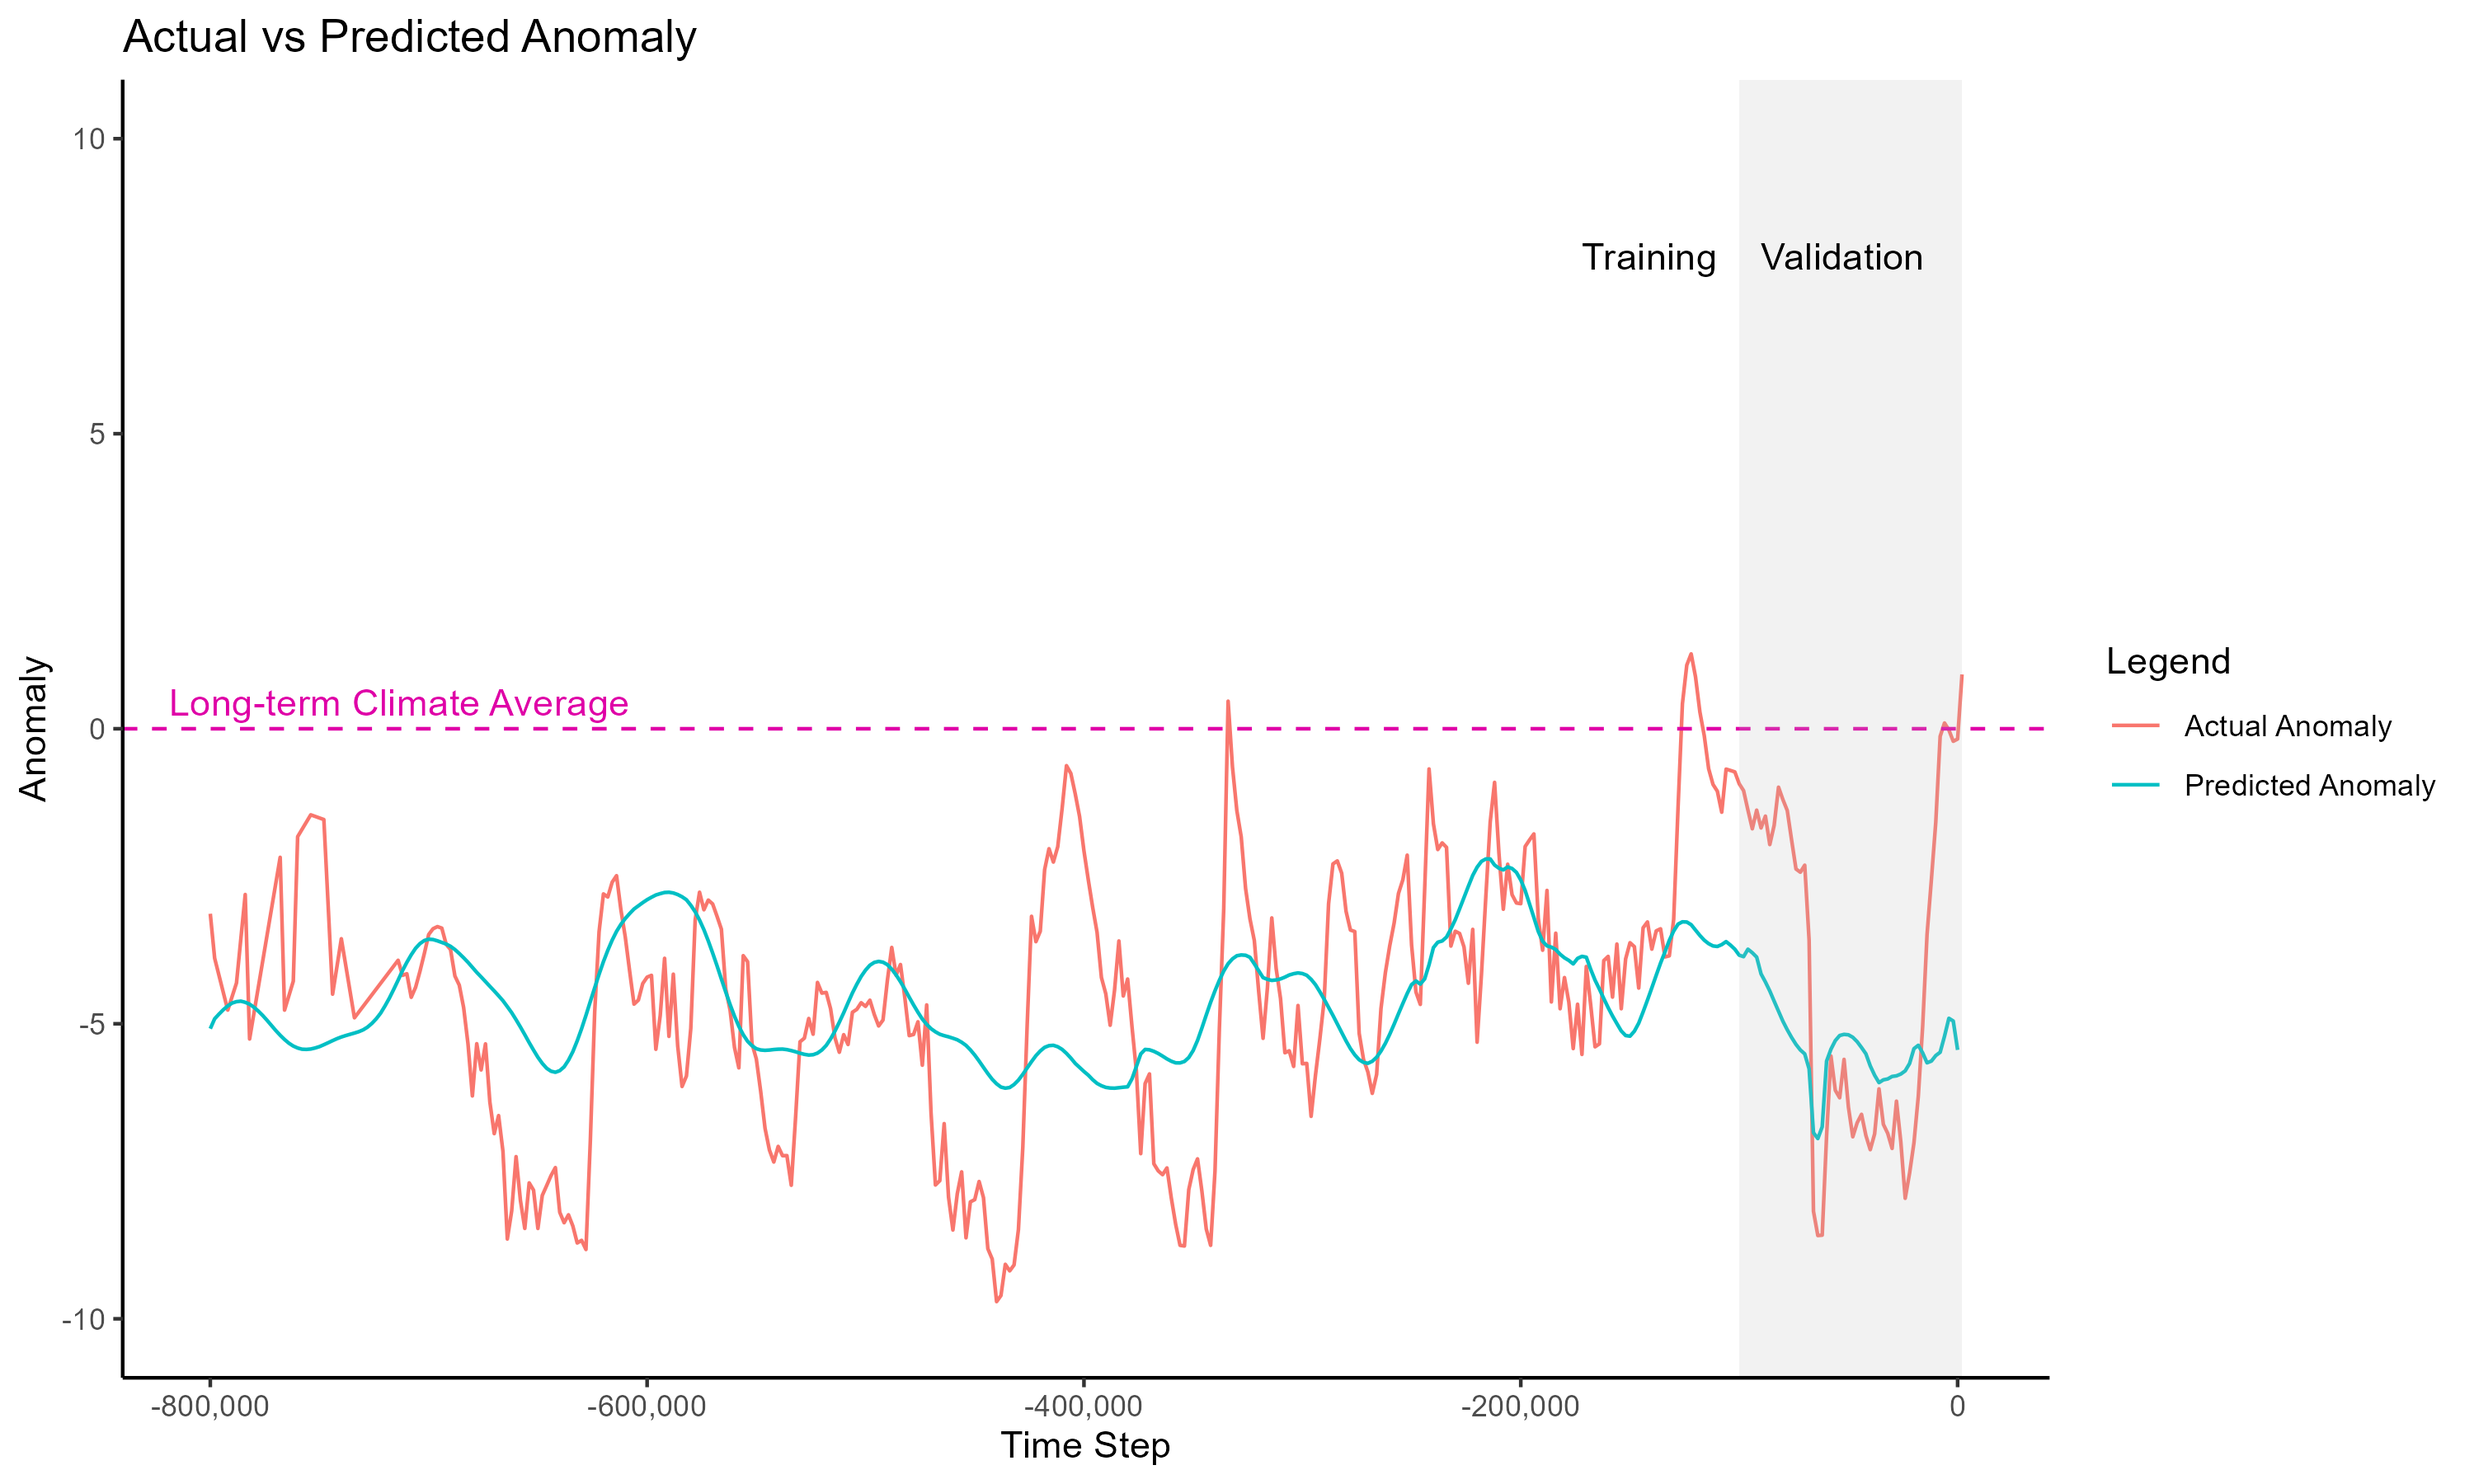
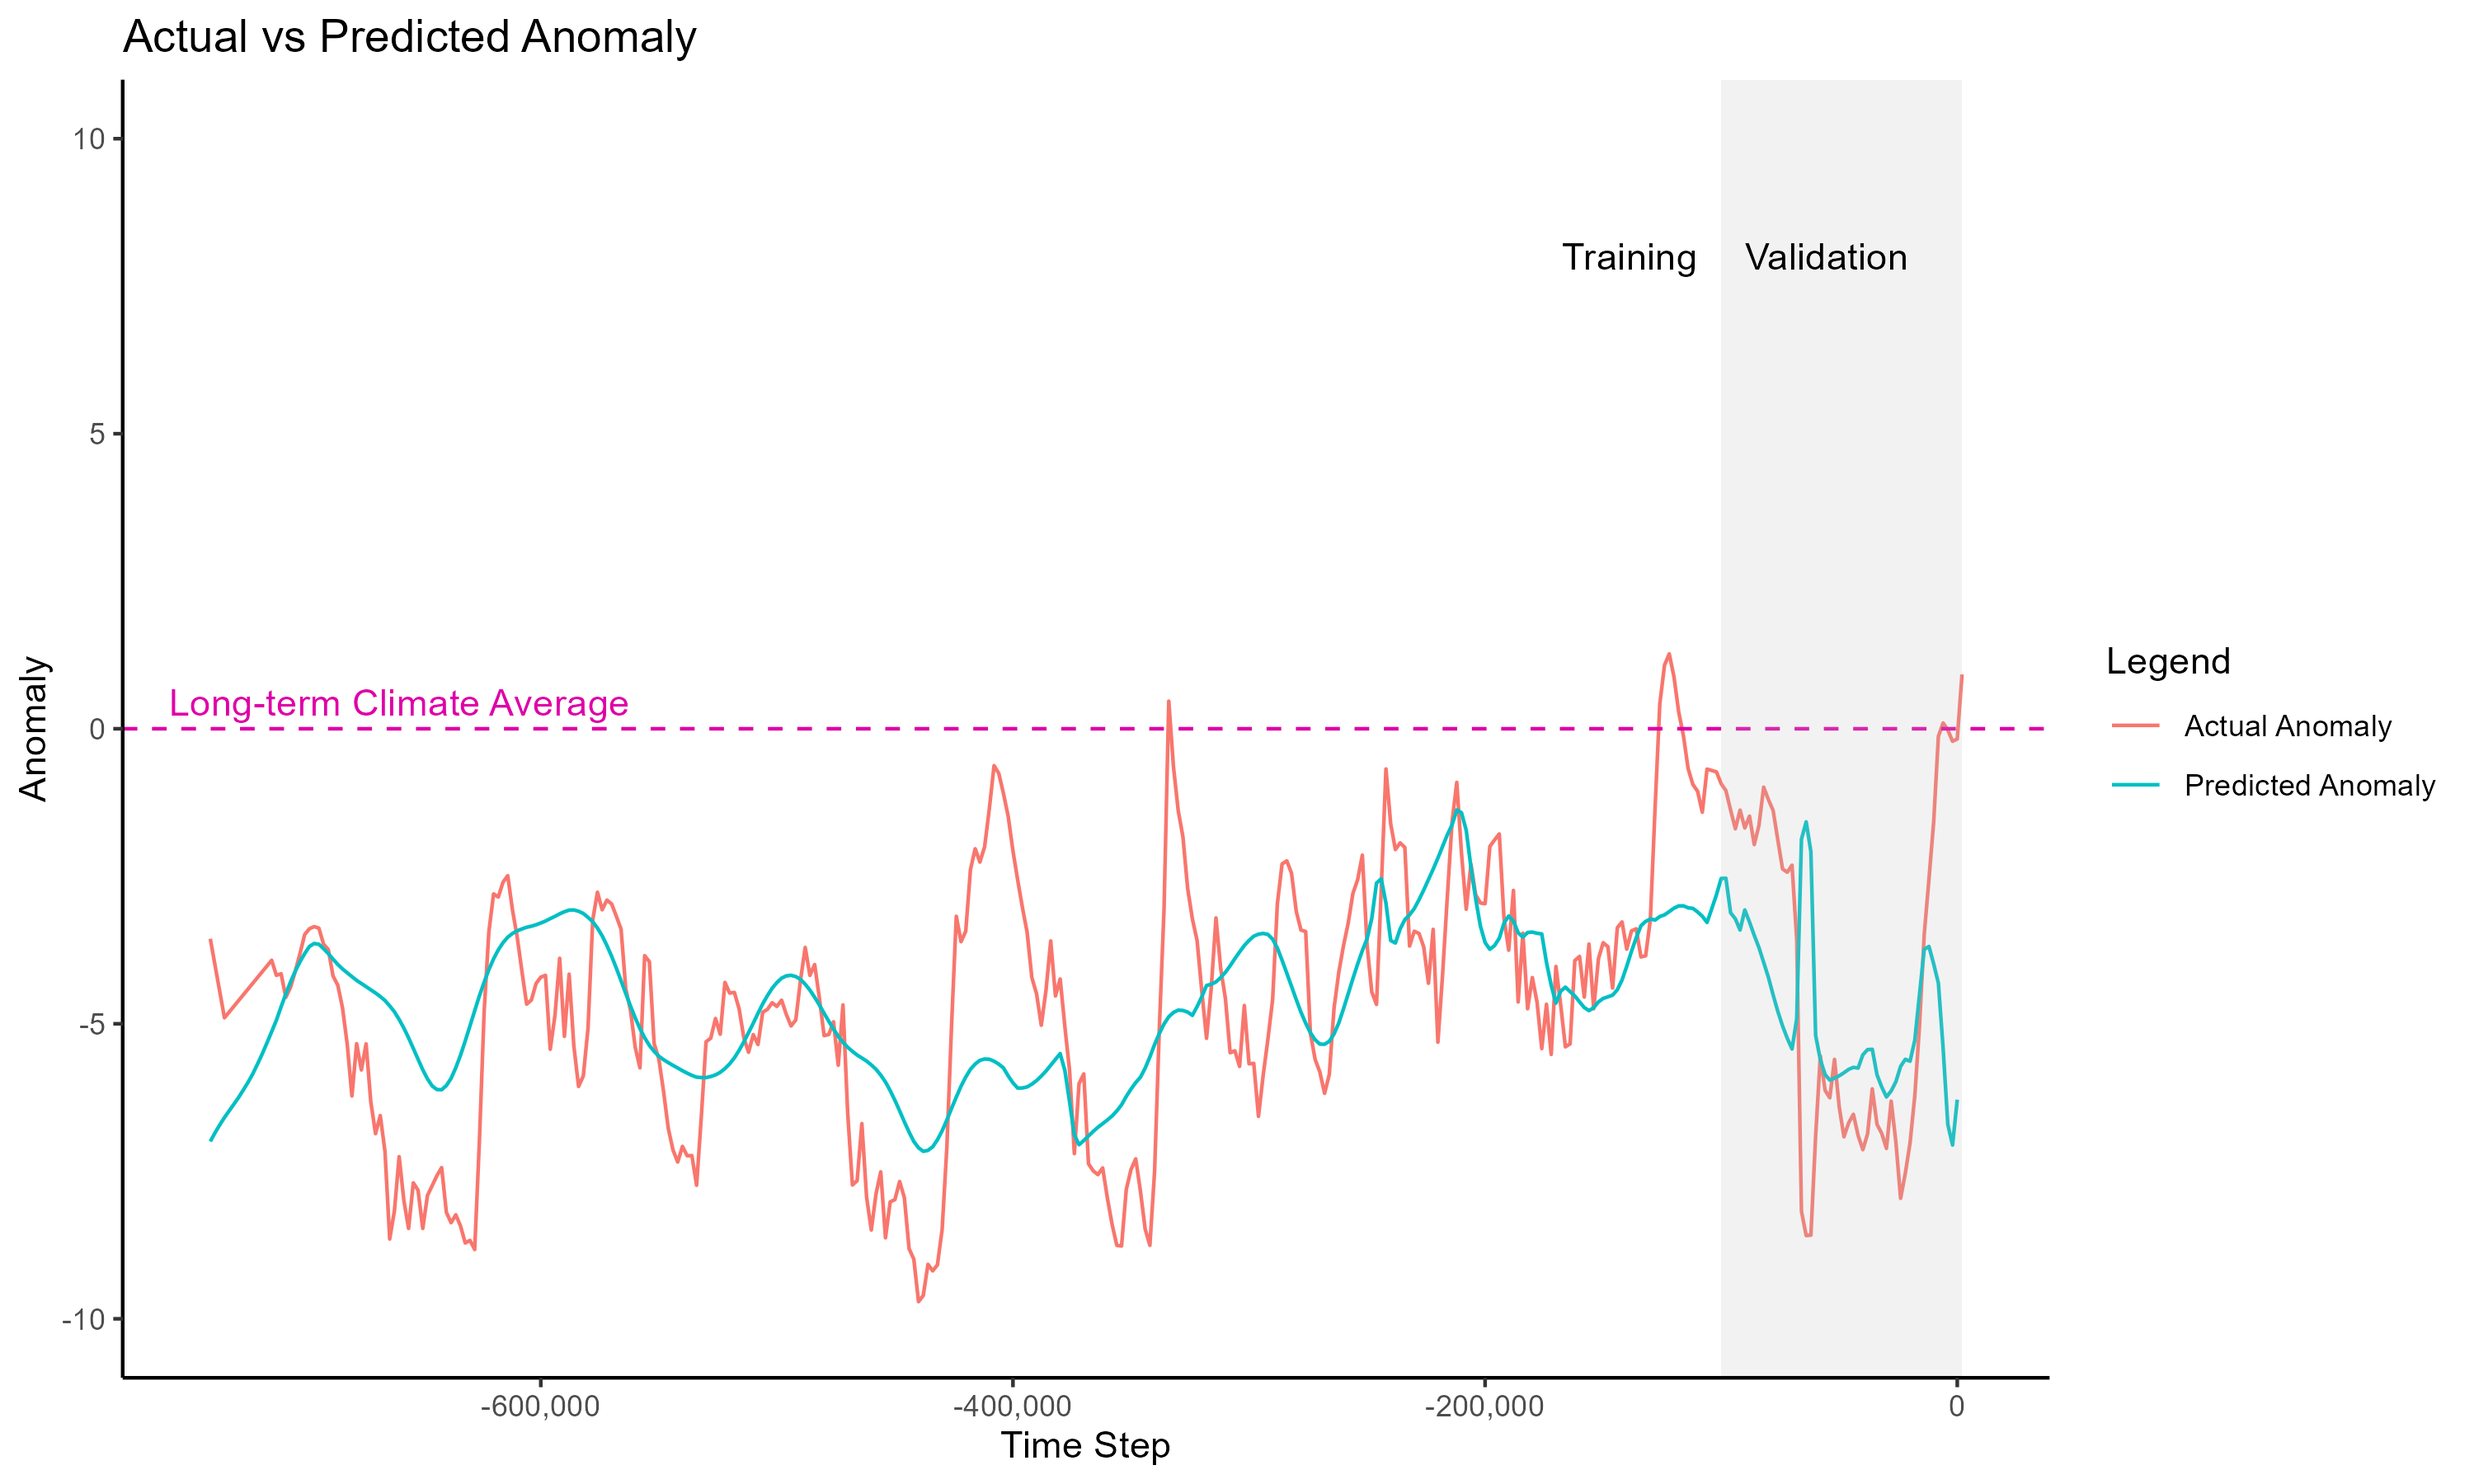
Added regularization

diff --git a/Temp12k_torch_forecasting.py b/Temp12k_torch_forecasting.py
@@ -13,10 +13,42 @@ import numpy as np
 full_df = pl.read_csv(
     "Outputs/long_term_global_anomaly_view_enriched_training.csv"
 ).drop_nans()
-train_df = full_df.filter(pl.col("year_bin") < -100000)
+# %%
+# Solar modulation seems to have an inverse effect at -64,000 - possibly some reversal in its effect needs to be modeled
+reverse_solar_modulation = False
+if reverse_solar_modulation:
+    full_df = full_df.with_columns(
+        pl.when(pl.col("year_bin") > -200000)
+        .then(-pl.col("solar_modulation"))
+        .otherwise(pl.col("solar_modulation"))
+        .alias("solar_modulation"),
+        pl.when(pl.col("year_bin") > -200000)
+        .then(-pl.col("delta_solar_modulation"))
+        .otherwise(pl.col("delta_solar_modulation"))
+        .alias("delta_solar_modulation"),
+    )
+# %%
+# Define the test set range
+middle = True
+if middle:
+    test_start = -500000
+    test_end = -300000
+else:
+    test_start = -100000
+    test_end = 3000
+
+# Split the dataset into training and test sets
+test_df = full_df.filter(
+    (pl.col("year_bin") >= test_start) & (pl.col("year_bin") <= test_end)
+)
+train_df = full_df.filter(
+    (pl.col("year_bin") < test_start) | (pl.col("year_bin") > test_end)
+)
 
 # Prepare the data
 features = train_df.drop("anomaly", "year_bin").to_numpy()
+print(f"Training on {train_df.drop('anomaly', 'year_bin').columns}")
+
 targets = train_df["anomaly"].to_numpy()
 
 # Convert to PyTorch tensors
@@ -41,8 +73,54 @@ class AnomalyPredictor(nn.Module):
         return self.model(x)
 
 
+def run_loss_train(model, data_loader, criterion, regularization_lambda, optimizer):
+    """
+    Description: Trains the inputted model for 1 epoch
+    """
+    model.train()
+    total_loss = 0.0
+    for batch_features, batch_targets in data_loader:
+        predictions = model(batch_features)
+        loss = criterion(predictions, batch_targets)
+        l2_norm = sum(
+            p.pow(2).sum() for p in model.parameters()
+        )  # L2 (ridge) regularization - loss penalty for larger parameter sizes (automatically ignores important parameters)
+        loss += regularization_lambda * l2_norm
+        optimizer.zero_grad()
+        total_loss += loss.item()
+        loss.backward()
+        optimizer.step()
+
+
+def evaluate_loss(model, data_loader, criterion, regularization_lambda):
+    """
+    Description: Returns the loss of the inputted model on the inputted data
+    """
+    model.eval()
+    total_loss = 0.0
+    with torch.no_grad():
+        for batch_features, batch_targets in data_loader:
+            predictions = model(batch_features)
+            loss = criterion(predictions, batch_targets)
+            l2_norm = sum(p.pow(2).sum() for p in model.parameters())
+            loss += regularization_lambda * l2_norm
+            total_loss += loss.item()
+    return total_loss / len(data_loader)
+
+
+def evaluate_predictions(model, features_tensor):
+    """
+    Description: Returns the predictions of the inputted model on the inputted data
+    """
+    model.eval()
+    with torch.no_grad():
+        fold_predictions = model(features_tensor).squeeze().numpy()
+    return fold_predictions
+
+
 # K-Fold Cross Validation
 k_folds = 5
+regularization_lambda = 0.05  # L2 (ridge) regularization parameter
 kf = KFold(n_splits=k_folds, shuffle=True, random_state=42)
 
 input_size = features.shape[1]
@@ -69,46 +147,40 @@ for fold, (train_idx, val_idx) in enumerate(kf.split(features_tensor)):
     criterion = nn.MSELoss()
     optimizer = torch.optim.Adam(model.parameters(), lr=0.001)
 
-    # Train the model
-    epochs = 50
+    epochs = 400
+    prev_val_loss = float("inf")
+    original_patience = 10
+    patience = original_patience
     for epoch in range(epochs):
-        model.train()
-        for batch_features, batch_targets in train_loader:
-            # Forward pass
-            predictions = model(batch_features)
-            loss = criterion(predictions, batch_targets)
+        # Train the model
+        run_loss_train(model, train_loader, criterion, regularization_lambda, optimizer)
 
-            # Backward pass and optimization
-            optimizer.zero_grad()
-            loss.backward()
-            optimizer.step()
+        # Early stopping: break if validation loss didn't improve
+        val_loss = evaluate_loss(model, val_loader, criterion, regularization_lambda)
+        if val_loss > prev_val_loss:
+            patience -= 1
+            if patience <= 0:
+                print(
+                    f"Early stopping at epoch {epoch + 1} due to no improvement in validation loss."
+                )
+                break
+        else:
+            patience = original_patience
+        prev_val_loss = val_loss
 
-    # Evaluate on validation set
-    model.eval()
-    val_loss = 0.0
-    fold_residuals = []
-    with torch.no_grad():
-        for val_features, val_targets in val_loader:
-            val_predictions = model(val_features)
-            val_loss += criterion(val_predictions, val_targets).item()
-            fold_residuals.extend((val_targets - val_predictions).squeeze().numpy())
+    # Show final fold performance
+    val_loss = evaluate_loss(model, val_loader, criterion, regularization_lambda)
+    train_loss = evaluate_loss(model, train_loader, criterion, regularization_lambda)
 
-    val_loss /= len(val_loader)
+    print(f"Training Loss for Fold {fold + 1}: {train_loss:.4f}")
     print(f"Validation Loss for Fold {fold + 1}: {val_loss:.4f}")
-    fold_results.append(val_loss)
-    residuals.extend(fold_residuals)
-    torch.save(model.state_dict(), f"models/model_fold_{fold + 1}.pth")
 
-# Aggregate residuals and compute R-squared
-residuals = np.array(residuals)
-total_variance = np.var(targets_tensor.numpy())
-explained_variance = total_variance - np.var(residuals)
-r_squared = explained_variance / total_variance
+    fold_results.append(val_loss)
+    torch.save(model.state_dict(), f"models/model_fold_{fold + 1}.pth")
 
 # Average validation loss across folds
 avg_val_loss = np.mean(fold_results)
 print(f"Average Validation Loss: {avg_val_loss:.4f}")
-print(f"R-squared of the ensemble: {r_squared:.4f}")
 
 # %%
 # Evaluate on full dataset
@@ -118,10 +190,8 @@ full_features_tensor = torch.tensor(full_features, dtype=torch.float32)
 all_predictions = []
 for fold in range(k_folds):
     model.load_state_dict(torch.load(f"models/model_fold_{fold + 1}.pth"))
-    model.eval()  # Ensure the model is in evaluation mode
-    with torch.no_grad():
-        fold_predictions = model(full_features_tensor).squeeze().numpy()
-        all_predictions.append(fold_predictions)
+    fold_predictions = evaluate_predictions(model, full_features_tensor)
+    all_predictions.append(fold_predictions)
 
 # Combine predictions from all folds (e.g., average them)
 predictions = sum(all_predictions) / len(all_predictions)
@@ -135,7 +205,8 @@ plt.plot(pred_df["year_bin"], pred_df["anomaly"], label="Actual Anomaly", alpha=
 plt.plot(
     pred_df["year_bin"], pred_df["pred_anomaly"], label="Predicted Anomaly", alpha=0.7
 )
-plt.axvline(x=-100000, color="red", linestyle="--", label="Test Data Cutoff")
+plt.axvline(x=test_start, color="red", linestyle="--", label="Test Data Cutoff")
+plt.axvline(x=test_end, color="red", linestyle="--", label="Test Data Cutoff")
 plt.xlabel("Year Bin")
 plt.ylabel("Anomaly")
 plt.title("Actual vs Predicted Anomaly (Test Data)")

diff --git a/Temp12k_view_creation.py b/Temp12k_view_creation.py
@@ -199,7 +199,10 @@ training = preprocessed.drop(
         or "squared" in col
         # or "delta" in col
     ]
-)
+).filter(
+    pl.col("year_bin") >= -740000
+)  # Records below -740000 are low resolution and cause overfitting to noise
+
 training.write_csv("Outputs/long_term_global_anomaly_view_enriched_training.csv")
 
 preprocessed = preprocessed.drop(
